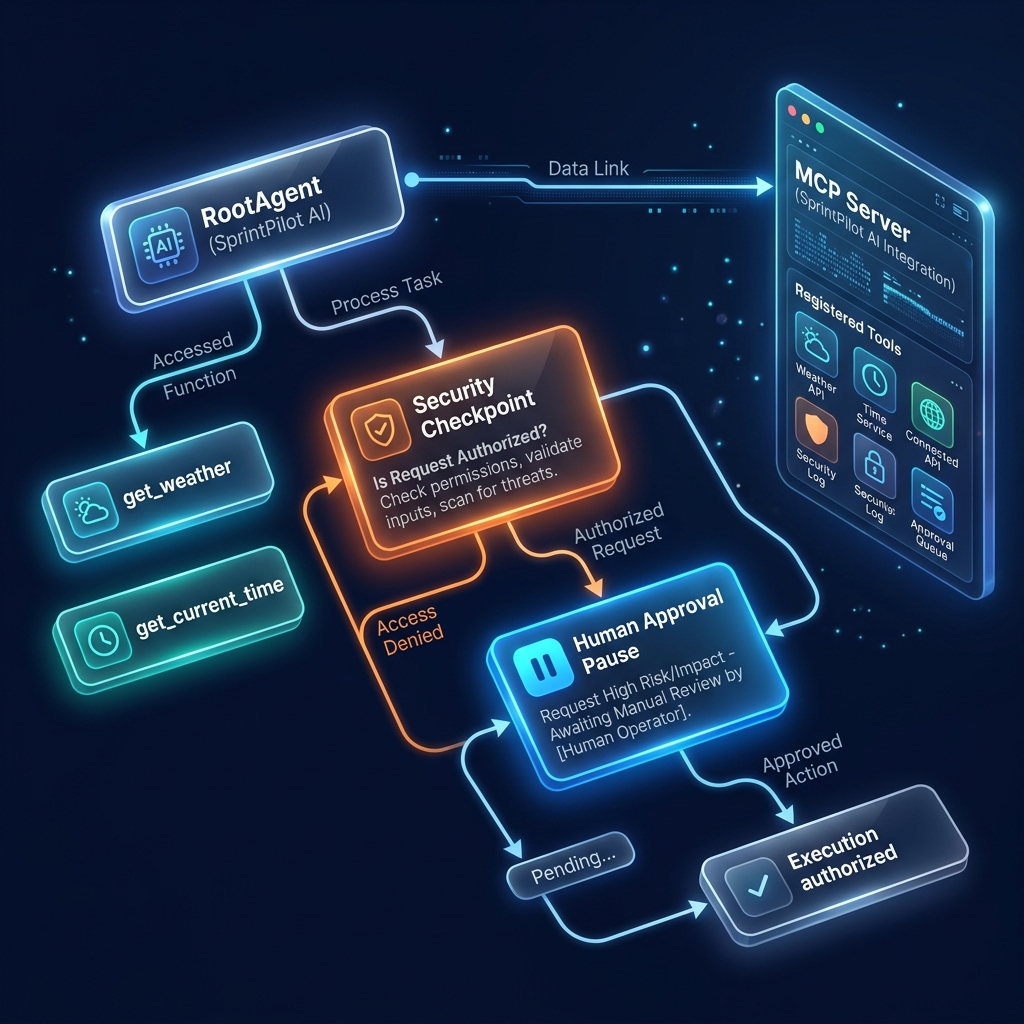
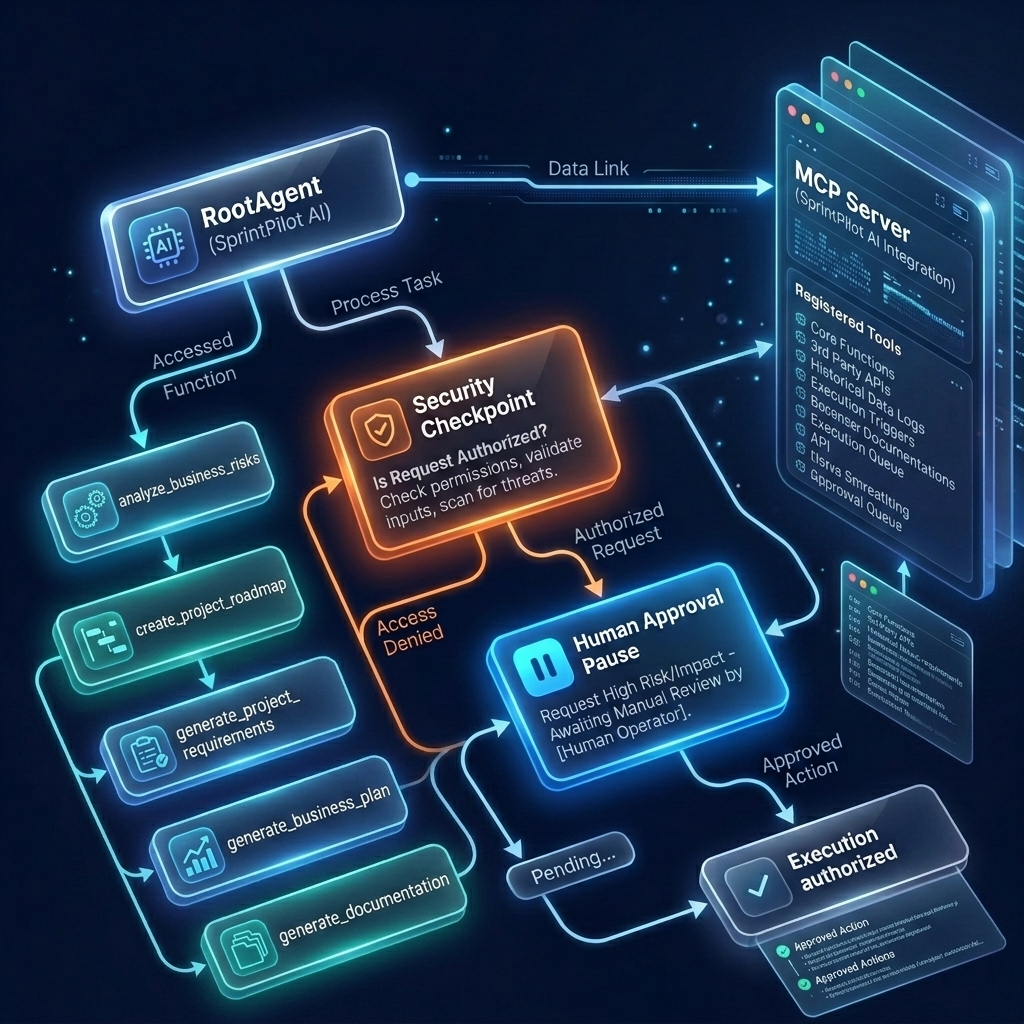
Update README.md and regenerate architecture_diagram.png and cover_page_banner.png to reflect the new SprintPilot AI business operations pipeline and memory/MCP setups

diff --git a/README.md b/README.md
@@ -32,7 +32,7 @@ make playground        # opens the interactive developer UI at http://localhost:
 
 ## Architecture Diagram
 
-The diagram below outlines the components of `sprintpilot-ai` and how requests flow through the application:
+The diagram below outlines the updated pipeline architecture of `sprintpilot-ai` and how requests flow through the application:
 
 ```mermaid
 graph TD
@@ -45,21 +45,39 @@ graph TD
         ADK -->|Root Agent Context| Agent[RootAgent]
     end
     
-    subgraph Agent Tools
-        Agent -->|Tool Execution| BizPlan[generate_business_plan]
-        Agent -->|Tool Execution| PRD[generate_project_requirements]
-        Agent -->|Tool Execution| Stories[generate_user_stories]
-        Agent -->|Tool Execution| Roadmap[create_project_roadmap]
-        Agent -->|Tool Execution| Doc[generate_documentation]
-        Agent -->|Tool Execution| Risk[analyze_business_risks]
+    subgraph Business Operations Pipeline
+        Agent -->|1. Create Outline| BizPlan[generate_business_plan]
+        BizPlan -->|2. Derive PRD JSON| PRD[generate_project_requirements]
+        PRD -->|3. Calculate Timeline JSON| Roadmap[create_project_roadmap]
+        Roadmap -->|4. Assess Registry JSON| Risk[analyze_business_risks]
+        Risk -->|5. Compile Markdown Doc| Doc[generate_documentation]
     end
-    
-    subgraph Observability
-        ADK -->|Telemetry & Tracing| OTel[OpenTelemetry & Cloud Logging]
+
+    subgraph Persistent Memory
+        Agent <-->|Session History| History[(Conversation Session Storage)]
+    end
+
+    subgraph Model Context Protocol (MCP)
+        Agent -->|File Access| MCPFilesystem[mcp_read_file / mcp_write_file]
+        Agent -->|Issue Tracker| MCPGithub[mcp_create_github_issue]
+        Agent -->|Cloud Docs| MCPGoogle[mcp_upload_to_drive / mcp_create_google_doc]
+        Agent -->|Scheduling| MCPCalendar[mcp_schedule_event]
     end
 ```
 
 ![Architecture Diagram](assets/architecture_diagram.png)
+
+---
+
+## Model Context Protocol (MCP) Integration
+
+The project includes an extensible Model Context Protocol client manager located at [app/app_utils/mcp_client.py](file:///c:/Users/Anshu%20Gupta/Desktop/adk-workspace/sprintpilot-ai/app/app_utils/mcp_client.py) supporting:
+*   **Filesystem:** Reads and writes workspace files (`MCP_FILESYSTEM_ENABLED`).
+*   **GitHub:** Integrates with issue trackers (`MCP_GITHUB_ENABLED`).
+*   **Google Drive & Google Docs:** Uploads documents and spreadsheets (`MCP_GDRIVE_ENABLED` & `MCP_GDOCS_ENABLED`).
+*   **Google Calendar:** Schedules project timeline events (`MCP_GCALENDAR_ENABLED`).
+
+All services are configured dynamically using environment variables, avoiding any hardcoded secrets.
 
 ---
 
@@ -73,22 +91,22 @@ You can run the project in two different modes:
 
 ## Sample Test Cases
 
-Here are 3 specific test cases you can execute in the local playground or web server:
+Here are 3 specific test cases you can execute in the local playground:
 
-### 1. Generating a Business Plan Outline
-*   **Input:** `"Can you generate a business plan for Acme Corp in the SaaS industry targeting developers?"`
-*   **Expected Behavior:** The `RootAgent` parses the request, invokes the `generate_business_plan` tool with the parameters `company_name="Acme Corp"`, `industry="SaaS"`, and `target_audience="developers"`, receives a structured business plan template, and returns it.
-*   **Check:** In the playground UI, you will see a tool call block for `generate_business_plan`. The final response will show the generated markdown business plan.
+### 1. End-to-End Business Operations Orchestration
+*   **Input:** `"I want to build a software development agency startup named DevSprint in the SaaS industry."`
+*   **Expected Behavior:** `RootAgent` identifies this as a fresh startup planning request. It triggers the planning sequence: `generate_business_plan` -> `generate_project_requirements` -> `create_project_roadmap` -> `analyze_business_risks` -> `generate_documentation` and outputs a single consolidated operations report.
+*   **Check:** The user sees a markdown report containing Executive Summary, README, SRS, Architecture, API details, and Meeting Notes. In the logs, all 5 tool runs appear in order.
 
-### 2. Creating a Project Roadmap
-*   **Input:** `"Create a 6-week project roadmap for my e-commerce storefront project."`
-*   **Expected Behavior:** The `RootAgent` invokes the `create_project_roadmap` tool with parameters `project_name="e-commerce storefront"` and `duration_weeks=6`. The tool computes phase timelines and returns the roadmap.
-*   **Check:** The UI displays the tool call logs for `create_project_roadmap` and shows a structured 6-week timeline with phases.
+### 2. Context-Aware Requirements Generation (Memory Validation)
+*   **Input:** (Direct follow-up to case 1 in same session) `"Now draft user stories for the platform onboarding flow."`
+*   **Expected Behavior:** `RootAgent` scans the session conversation history to extract `company_name="DevSprint"` and the SaaS industry requirements. It invokes `generate_user_stories(feature_name="platform onboarding flow", goal="SaaS user onboarding")`.
+*   **Check:** The user receives a detailed user stories document without having to re-provide company details or goals.
 
-### 3. Business Risk Analysis
-*   **Input:** `"Analyze business risks for Stripe in the payments space."`
-*   **Expected Behavior:** The `RootAgent` routes the request to the `analyze_business_risks` tool with `company_name="Stripe"` and `industry="payments"`. The tool returns a risk analysis report with mitigations.
-*   **Check:** The user sees the generated risk report listing market, operational, and compliance risks for Stripe.
+### 3. Extensible MCP Filesystem Check
+*   **Input:** `"Save the generated requirements doc to workspace file requirements.md."`
+*   **Expected Behavior:** `RootAgent` triggers the active MCP Filesystem tool `mcp_write_file` with the path `requirements.md` and the document text as content.
+*   **Check:** The workspace local filesystem has a new file `requirements.md` created with correct contents.
 
 ---
 